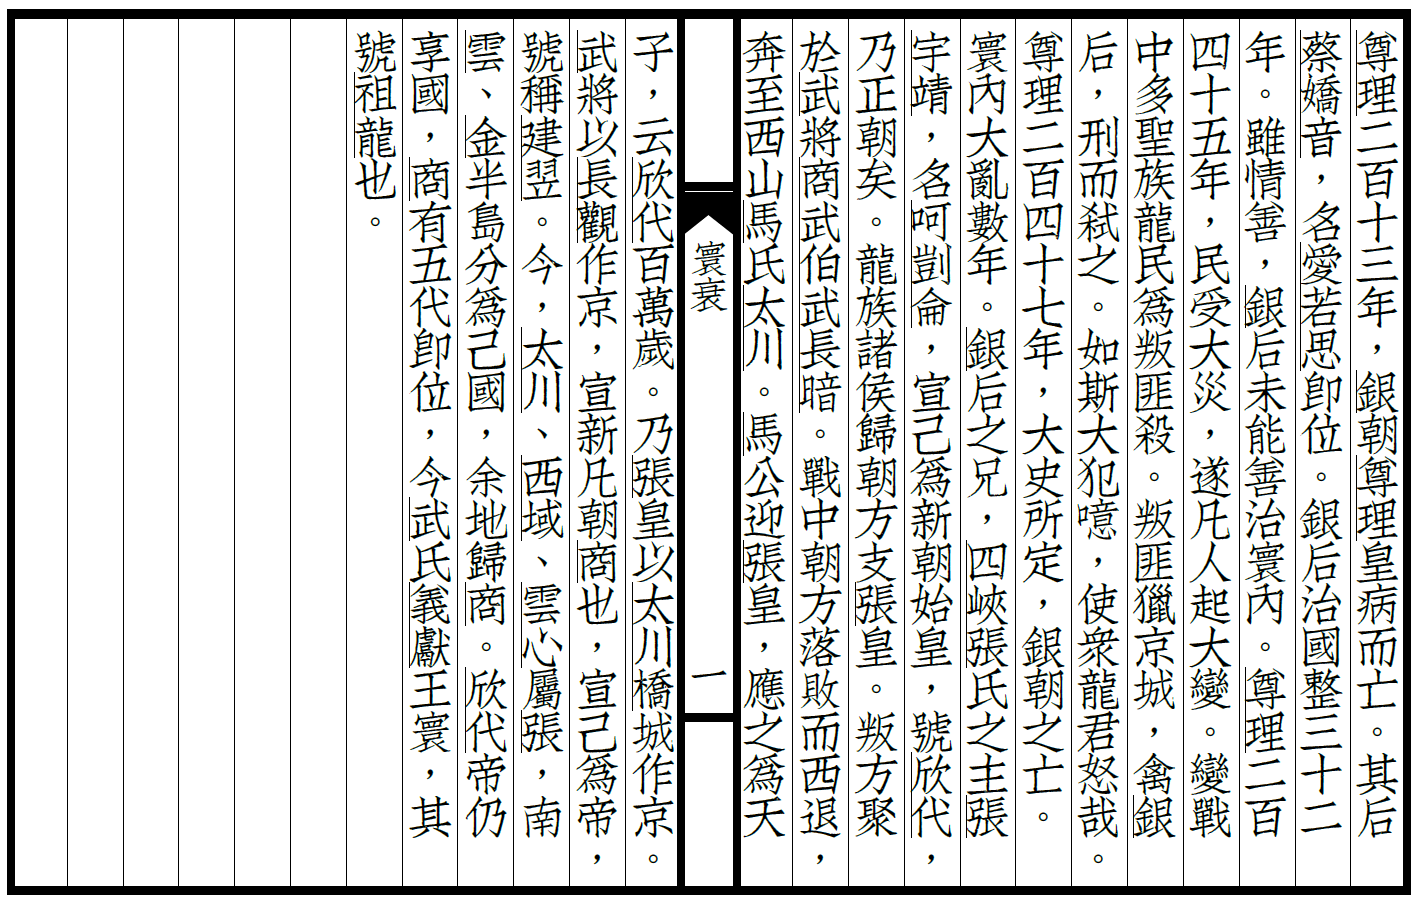
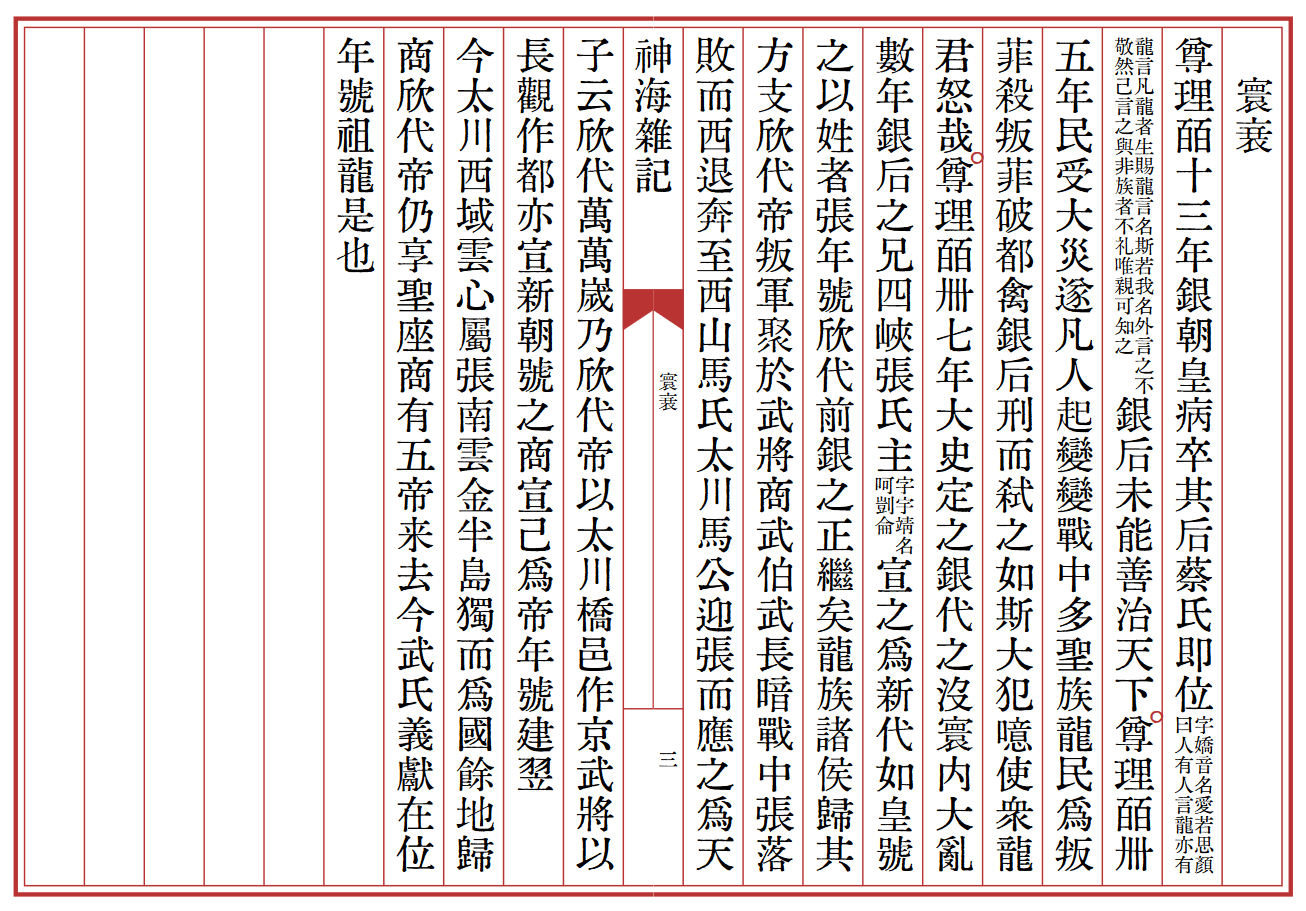
update texts in zunli and 3drgns

diff --git a/fan/blog/zunli/index.html b/fan/blog/zunli/index.html
@@ -8,6 +8,8 @@
 	<meta name="viewport" content="width=device-width" initial-scale=1.0>  
 	<link rel="icon" type="image/png" href="../../style/images/DragonIconGreen.png">
 
+	<script defer type="text/javascript" src="https://cdn.jsdelivr.net/npm/marked/marked.min.js"></script>
+	<script defer type="text/javascript" src="../../../js/arrange.js"></script>
 	<!-- <script src="https://ajax.googleapis.com/ajax/libs/webfont/1.6.26/webfont.js"></script>
 	<script>
 	  WebFont.load({
@@ -58,26 +60,34 @@
 			</div> -->
 
 			<figure>
-				<img src="./text.png" alt="
-				尊理二百十三年，银朝尊理皇病而亡。其后
-				蔡娇音，名爱若思即位。银后治国整三十二
-				年。虽情善，银后未能善治寰内。尊理二百
-				四十五年，民受大災，遂凡人起大变。变战
-				中多圣族龙民为叛匪杀。叛匪猎京城，禽银
-				后，刑而弑之。如斯大犯噫，使众龙君怒哉。
-				尊理二百四十七年，大史所定，银朝之亡。
-				寰内大乱数年。银后之兄，四峡张氏之主张
-				宇靖，名呵剀仑，宣己为新朝始皇，号欣代，
-				乃正朝矣。龙族诸侯归朝方支张皇。叛方聚
-				於武将商武伯武长暗。战中朝方落败而西退，
-				奔至西山马氏太川。马公迎张皇，应之为天
-				子，云欣代百萬岁。乃张皇以太川桥城作京。
-				武将以长观作京，宣新凡朝商也，宣己为帝，
-				号称建翌。今，太川、西域、雲心属张，南
-				雲、金半岛分为己国，余地归商。欣代帝仍
-				享国，商有五代即位，今武氏義献王寰，其
-				号祖龙也。">
+				<img src="./text.png" alt="">
 			</figure>
+
+<div class="md-conv">
+
+#### 寰衰
+
+尊理皕十三年，銀朝皇病卒，其后蔡氏即位。（【注】字嬌音，名愛若思。顔
+曰：人有人言，龍亦有龍言，凡龍者生賜龍言名，斯若我名，外言之不
+敬。然己言之與非族者，不礼。唯親可知之。）
+銀后未能善治天下。
+
+尊理皕卌五年，民受大災，遂凡人起變，變戰中多聖族龍民爲叛
+匪殺。叛匪破都，禽銀后，刑而弒之，如斯大犯噫，使衆龍
+君怒哉。
+
+尊理皕卌七年，大史定之，銀代之沒，寰内大亂
+數年，銀后之兄四峽張氏主（【注】字宇靖，名呵剴侖）宣之爲新代始皇，號
+之以姓者張，年號欣代，前銀之正繼矣。龍族諸侯歸其
+方，支欣代帝。叛軍聚於武將商武伯武長暗。戰中張落
+敗而西退，奔至西山馬氏太川。馬公迎張而應之爲天
+子，云欣代萬萬嵗，乃欣代帝以太川橋邑作京，武將以
+長觀作都亦宣新朝，號之商，宣己爲帝，年號建翌。
+今太川、西域、雲心屬張。南雲、金半島獨而爲國。餘地歸
+商。欣代帝仍享聖座，商有五帝来去，今武氏義獻在位，
+年號祖龍是也。
+
+</div>
 
 			<h2>Translation</h2>
 

diff --git a/fan/blog/3dragons/index.html b/fan/blog/3dragons/index.html
@@ -8,7 +8,7 @@
 	<!-- <link rel="stylesheet" type="text/css" href="../../style/prism.css" media="all"> -->
 	<meta name="viewport" content="width=device-width" initial-scale=1.0>  <!--TODO: CHANGE LINKS ON BOTTOM OF SHEET FOR COLLAPSIBLE-->
 	<script defer type="text/javascript" src="https://cdn.jsdelivr.net/npm/marked/marked.min.js"></script>
-	<script defer type="text/javascript" src="../../js/arrange.js"></script>
+	<script defer type="text/javascript" src="../../../js/arrange.js"></script>
 </head>
 <body>
 
@@ -54,25 +54,27 @@
 			</div> -->
 
 			<figure>
-				<img src="./text.png" alt="
-				三龙万军
-				长战时代，灵之孔氏为上，天下西山太川之
-				主，马氏也。马氏萬年治其郡，中原诸国無
-				可奈之何矣。中国乱，卢藏之王曰，中原無
-				大皇可援马国，朕大藏之威必在其上矣。欲
-				战太川为己，遂师萬兵而东侵。踰天地泉多
-				日王未遇马军，無抗深入川。其军入六百里，
-				在央山之顶寨。翌日王见对有三骑者，标马
-				徽。王發其探，午归而奉信曰，马主迎藏王
-				拜鄙国，然求大王今退之。退则朕谅此征。
-				不则将令朕三骑灭君兵，無不杀矣。藏王哂
-				之曰，仅三人岂可灭朕军矣哉。朕情善，若
-				彼三小人明日之前去，朕饶其命矣。不去，
-				则禽、刑而杀。三骑未去，果藏王令其军禽
-				而杀之。军至，骑者突化龙，以圣寒火灭尽
-				藏兵，一人無饶，逐藏获胜。因，今人尝云，
-				三龙萬军。">
+				<img src="./text.png" alt="三龍萬軍文">
 			</figure>
+
+<div class="md-conv">
+
+#### 三龍萬軍
+
+長戰時代，靈之孔氏爲上，天下西山太川之主，馬氏也。
+馬氏萬年治其郡，中原諸國無可奈之何矣。中國亂，盧
+藏之王曰：中原無大皇可援馬國，朕大藏之威必在其
+上矣。欲戰太川爲己，遂師萬兵而東侵。踰天地泉多日，
+王未遇馬軍，無抗深入川。其軍入六百里在岟山之
+頂寨。翌日王見對有三騎者，標馬徽。王發其探，午歸而
+奉信曰：馬主迎藏王拜鄙國，然求大王今退之，退則朕
+諒此征，不則將令朕三騎滅君兵，無不殺矣。藏王哂之
+曰：僅三人豈可滅朕軍矣哉，朕性好，若彼三小人明日
+之前去，朕饒其命矣，不去則擒、刑而殺。三騎未去，果藏
+王令其軍擒而殺之，軍至騎者突化龍，以聖寒火滅盡
+藏兵，一人無饒，逐藏獲勝。因今人嘗云：三龍萬軍。
+
+</div>
 
 
 			<h2>Translation</h2>
